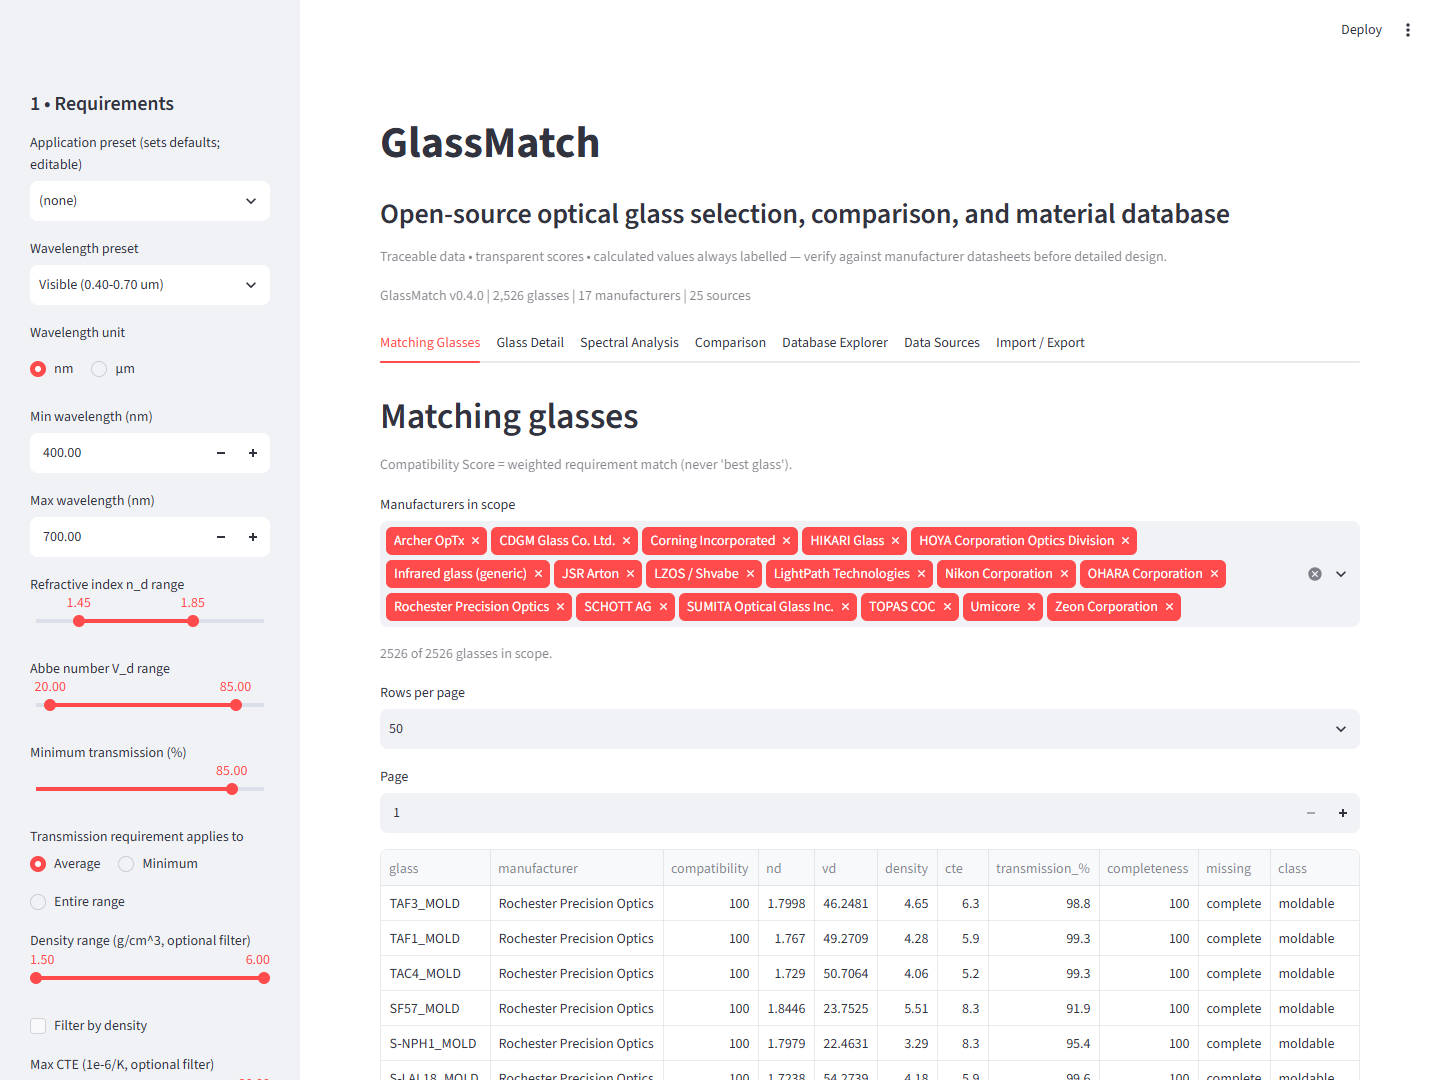
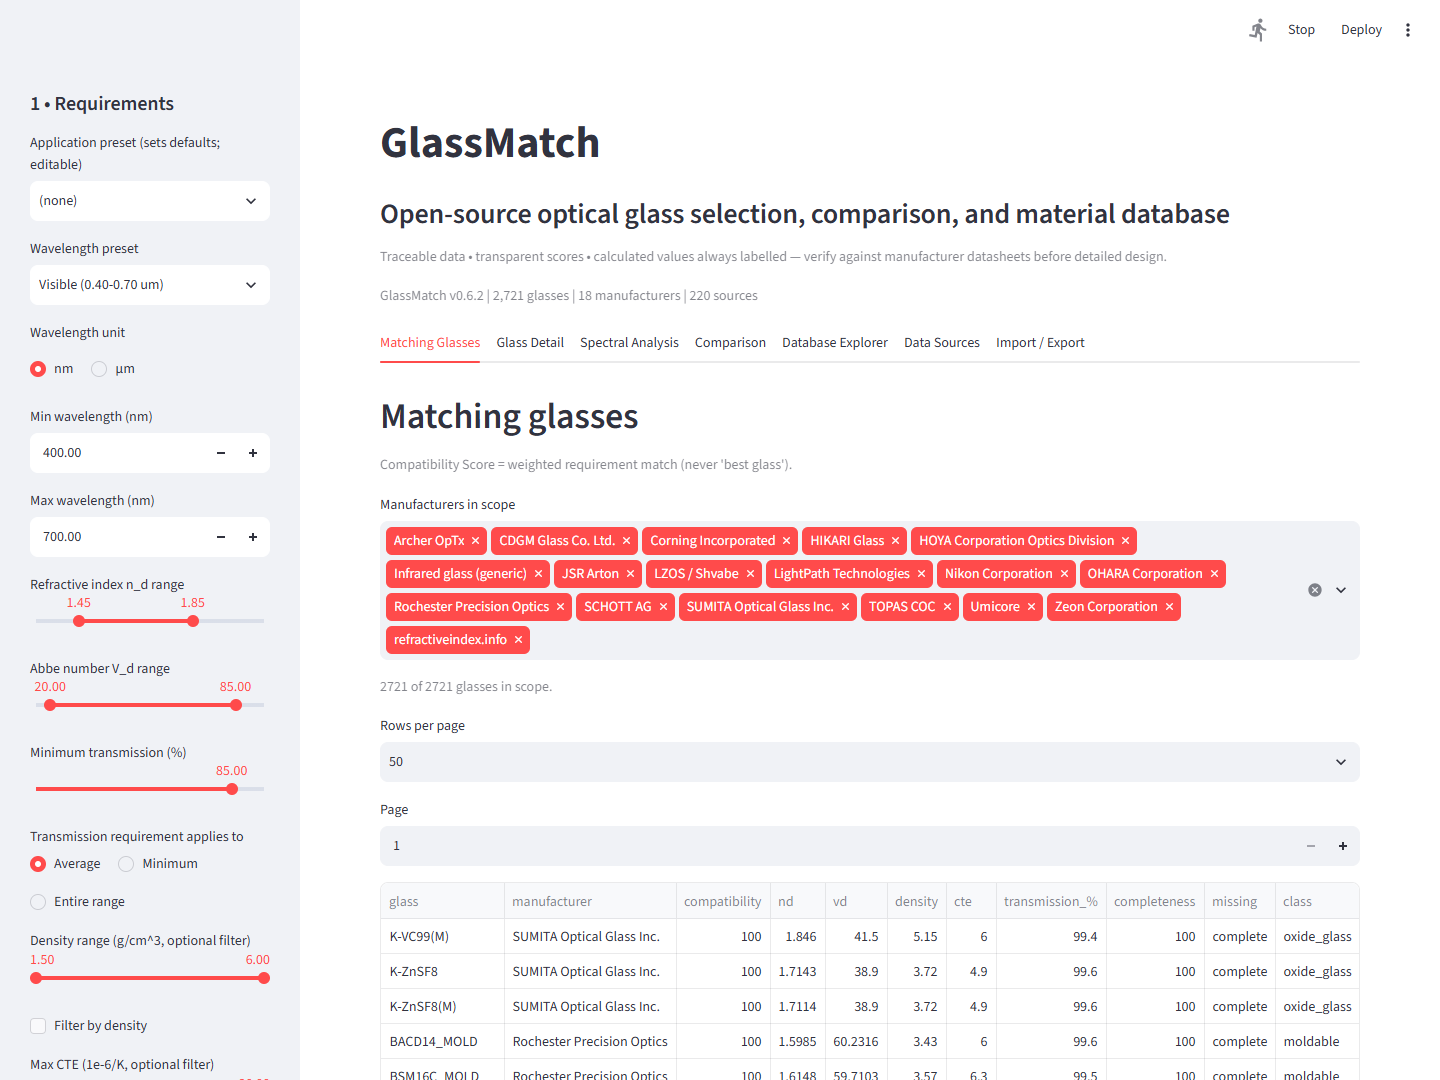
fix(matching): "Require available data" now actually filters
The checkbox set a glass score to 0 but never removed the row, so enabling it
returned all 2,721 materials at 0% - the results table opened on a wall of
zeros. It also used the wrong rule, failing a glass for ANY missing property:
a glass with perfect n_d, V_d and transmission but no published density was
discarded from a query that never mentioned density.

Requirement and weight are different kinds of intent - a range is a question
asked, a weight only tunes scoring priority. constrained_keys() now decides
exclusion, excluded rows are dropped, and match_glasses reports the count plus
which property blocked each one, so the UI can disclose the exclusions rather
than silently shrink the result set.

On the full database a 400-700 nm, n_d 1.50-1.55, V_d 55-70, T>90% query goes
from 2,721 rows of zeros to real ranked results with the incomplete ones
removed and counted.

diff --git a/tests/test_require_data.py b/tests/test_require_data.py
@@ -1,0 +1,142 @@
+"""Tests: "Require available data" actually removes what it claims to.
+
+The checkbox zeroed a glass's score but never dropped the row, so enabling it
+returned every material in the database at 0% - page one of the results table
+was a wall of zeros. It also had the wrong rule: it failed a glass for *any*
+missing property, so a glass with perfect n_d, V_d and transmission but no
+published density was discarded from a query that never mentioned density.
+"""
+import pandas as pd
+import pytest
+
+from glassmatch.matching import (WEIGHT_KEYS, constrained_keys, match_glasses,
+                                 normalize_weights, score_glass)
+
+W = {"nd": 30.0, "transmission": 30.0, "vd": 20.0, "density": 10.0, "cte": 10.0}
+
+
+def _summary(rows):
+    return pd.DataFrame(rows)
+
+
+BASE = {
+    "glass_id": "MFR-A", "glass": "A", "manufacturer": "MFR",
+    "manufacturer_id": "MFR", "family": "crown",
+    "material_class": "oxide_glass", "ir_mode": False,
+    "nd": 1.5168, "vd": 64.17, "density": 2.51, "cte": 7.1,
+}
+NO_DENSITY = dict(BASE, glass_id="MFR-B", glass="B", density=None)
+NO_TRANSMISSION = dict(BASE, glass_id="MFR-C", glass="C")
+
+REQ_ALL = {"nd_min": 1.50, "nd_max": 1.55, "vd_min": 55, "vd_max": 70,
+           "transmission_min": 90}
+
+
+def test_constrained_keys_reflects_only_stated_requirements():
+    assert constrained_keys(REQ_ALL) == {"nd", "vd", "transmission"}
+    assert constrained_keys({"nd_min": 1.5}) == {"nd"}
+    assert constrained_keys({}) == set()
+    assert constrained_keys({"density_min": 2.0}) == {"density"}
+    assert "cte" in constrained_keys({"cte_max": 20.0})
+
+
+def test_require_data_drops_rows_rather_than_zeroing_them():
+    """The regression: previously every material came back, all at 0%."""
+    summary = _summary([BASE, NO_DENSITY, NO_TRANSMISSION])
+    trans = {"MFR-A": 99.0, "MFR-B": 99.0}  # C has no transmission data
+
+    kept = match_glasses(summary, REQ_ALL, W, transmissions=trans, require_data=True)
+    assert "MFR-C" not in set(kept.glass_id), \
+        "a glass with no transmission data must be dropped"
+    assert kept.attrs["excluded_count"] == 1
+    assert "MFR-A" in set(kept.glass_id)
+    # Nothing survives at 0% - that was the visible symptom.
+    assert (kept.compatibility > 0).all(), \
+        kept[kept.compatibility <= 0].to_dict("records")
+
+
+def test_require_data_keeps_a_glass_missing_an_unconstrained_property():
+    """No density requirement was asked for, so absent density must not fail."""
+    summary = _summary([BASE, NO_DENSITY])
+    trans = {"MFR-A": 99.0, "MFR-B": 99.0}
+    kept = match_glasses(summary, REQ_ALL, W, transmissions=trans, require_data=True)
+    assert set(kept.glass_id) == {"MFR-A", "MFR-B"}
+    assert kept.attrs["excluded_count"] == 0
+    # It is still flagged, and the coverage factor still discounts it.
+    row = kept[kept.glass_id == "MFR-B"].iloc[0]
+    assert "density" in row["missing"]
+    assert row["compatibility"] < \
+        kept[kept.glass_id == "MFR-A"].iloc[0]["compatibility"]
+
+
+def test_require_data_failures_are_reported_with_the_blocking_property():
+    summary = _summary([BASE, NO_TRANSMISSION])
+    trans = {"MFR-A": 99.0}
+    kept = match_glasses(summary, REQ_ALL, W, transmissions=trans, require_data=True)
+    examples = kept.attrs["excluded_examples"]
+    assert len(examples) == 1
+    assert examples[0]["glass_id"] == "MFR-C"
+    assert "transmission" in examples[0]["blocking_missing"]
+
+
+def test_require_data_off_keeps_everything():
+    summary = _summary([BASE, NO_TRANSMISSION])
+    kept = match_glasses(summary, REQ_ALL, W, transmissions={"MFR-A": 99.0},
+                         require_data=False)
+    assert len(kept) == 2
+    assert kept.attrs["excluded_count"] == 0
+
+
+def test_requiring_a_property_excludes_glasses_without_it():
+    summary = _summary([BASE, NO_DENSITY])
+    trans = {"MFR-A": 99.0, "MFR-B": 99.0}
+    req = dict(REQ_ALL, density_min=2.0)
+    kept = match_glasses(summary, req, W, transmissions=trans, require_data=True)
+    assert set(kept.glass_id) == {"MFR-A"}
+    assert kept.attrs["excluded_count"] == 1
+
+
+def test_no_constraints_means_require_data_excludes_nothing():
+    """Otherwise a bare query would silently drop most of the catalogue."""
+    summary = _summary([NO_DENSITY, NO_TRANSMISSION])
+    kept = match_glasses(summary, {}, W, transmissions={}, require_data=True)
+    assert len(kept) == 2
+
+
+def test_internal_columns_are_not_leaked_into_results():
+    summary = _summary([BASE])
+    kept = match_glasses(summary, REQ_ALL, W, transmissions={"MFR-A": 99.0},
+                         require_data=True)
+    assert "excluded" not in kept.columns
+    assert "blocking_missing" not in kept.columns
+
+
+def test_a_requirement_ranks_above_a_zero_weight():
+    """Setting a range means "I need this", even if the weight slider is 0.
+
+    The two controls are different kinds of intent: a requirement is a question
+    the user asked, while a weight only tunes scoring priority. Typing a
+    density range and then zeroing the density weight is self-contradictory
+    input, and excluding such a glass is the safe direction - it returns fewer
+    results, never more than the data supports. The app's real gate is the
+    separate "Filter by density" checkbox, which is what stops the requirement
+    from being sent at all.
+    """
+    summary = _summary([NO_DENSITY])
+    w = dict(W, density=0.0)
+    kept = match_glasses(summary, dict(REQ_ALL, density_min=2.0), w,
+                         transmissions={"MFR-B": 99.0}, require_data=True)
+    assert kept.attrs["excluded_count"] == 1
+    assert len(kept) == 0
+
+
+def test_excluded_rows_never_carry_a_positive_score():
+    """Defence in depth: even if a caller shows the frame, excluded is 0%."""
+    summary = _summary([NO_TRANSMISSION])
+    kept = match_glasses(summary, REQ_ALL, W, transmissions={"MFR-C": 50.0},
+                         require_data=True)
+    assert len(kept) == 1
+    sc = score_glass({"nd": 1.5168, "vd": 64.17, "density": 2.51, "cte": 7.1,
+                      "transmission": None}, REQ_ALL, W, require_data=True)
+    assert sc["excluded"] is True
+    assert sc["overall"] == 0.0

diff --git a/glassmatch/matching.py b/glassmatch/matching.py
@@ -38,6 +38,25 @@ def _band_score(value, lo, hi) -> tuple[float, str]:
     return max(0.0, 1.0 - (v - hi) / (0.5 * width + abs(hi) * 0.05 + 1e-9)), "above"
 
 
+def constrained_keys(requirements: dict) -> set:
+    """Properties the user actually put a requirement on.
+
+    "Require available data" must mean *this* glass has the data needed to
+    answer the question that was asked. A glass with a perfect n_d, V_d and
+    transmission but no published density satisfies a query about n_d, V_d and
+    transmission; excluding it would be a bug, and dropping it on any missing
+    property is how "require data" silently became "require everything".
+    """
+    req = requirements or {}
+    keys = set()
+    for prop in ("nd", "vd", "density", "cte"):
+        if req.get(f"{prop}_min") is not None or req.get(f"{prop}_max") is not None:
+            keys.add(prop)
+    if req.get("transmission_min") is not None:
+        keys.add("transmission")
+    return keys
+
+
 def is_ir_glass(row) -> bool:
     """True when V_d is physically meaningless for this glass."""
     try:
@@ -89,13 +108,19 @@ def score_glass(props: dict, requirements: dict, weights: dict,
     for k, v in out.items():
         if v is None:
             missing.append(k)
-    if require_data and missing:
+    # "Require available data" fails a glass only when a property the user
+    # actually asked about has no value to judge it by.
+    blocking = [k for k in missing if k in constrained_keys(req)]
+    out["blocking_missing"] = blocking
+    out["excluded"] = bool(require_data and blocking)
+    num = sum(w[k] * (out[k] if out[k] is not None else 0.0) for k in WEIGHT_KEYS)
+    den = sum(w[k] for k in WEIGHT_KEYS if out[k] is not None) or 1.0
+    coverage = sum(w[k] for k in WEIGHT_KEYS if out[k] is not None)
+    out["overall"] = (num / den) * (0.5 + 0.5 * coverage)
+    if out["excluded"]:
+        # Zero the headline number too, so an excluded row can never be mistaken
+        # for a poor match if it is ever shown.
         out["overall"] = 0.0
-    else:
-        num = sum(w[k] * (out[k] if out[k] is not None else 0.0) for k in WEIGHT_KEYS)
-        den = sum(w[k] for k in WEIGHT_KEYS if out[k] is not None) or 1.0
-        coverage = sum(w[k] for k in WEIGHT_KEYS if out[k] is not None)
-        out["overall"] = (num / den) * (0.5 + 0.5 * coverage)
     out["flags"] = flags
     out["missing"] = missing
     out["completeness"] = 1.0 - len(missing) / len(WEIGHT_KEYS)
@@ -125,8 +150,21 @@ def match_glasses(summary: pd.DataFrame, requirements: dict, weights: dict,
                      "compatibility": round(float(sc["overall"]) * 100, 1),
                      "completeness": round(float(sc["completeness"]) * 100, 1),
                      "missing": ", ".join(sc["missing"]) if sc["missing"] else "complete",
+                     "excluded": bool(sc["excluded"]),
+                     "blocking_missing": ", ".join(sc["blocking_missing"]),
                      **{f"score_{k}": (None if sc[k] is None else round(float(sc[k]) * 100, 1))
                         for k in WEIGHT_KEYS}})
     out = pd.DataFrame(rows)
-    return out.sort_values("compatibility", ascending=False).reset_index(drop=True)
+    out = out.sort_values("compatibility", ascending=False).reset_index(drop=True)
+    # Drop the rows "require data" rejected, and record how many went so the UI
+    # can say so rather than silently shrinking the result set.
+    excluded = out[out["excluded"]] if "excluded" in out else out.iloc[0:0]
+    kept = out[~out["excluded"]].drop(columns=["excluded", "blocking_missing"]) \
+        if "excluded" in out else out
+    kept = kept.reset_index(drop=True)
+    kept.attrs["excluded_count"] = int(len(excluded))
+    kept.attrs["excluded_examples"] = (
+        excluded.head(5)[["glass_id", "blocking_missing"]].to_dict("records")
+        if len(excluded) else [])
+    return kept
 

diff --git a/tests/test_matching.py b/tests/test_matching.py
@@ -32,11 +32,33 @@ def test_missing_data_flagged_not_failed():
 
 
 def test_require_data_zeroes_incomplete():
+    """A glass with no value for a property the user *asked about* fails.
+
+    The requirement here is on transmission and the glass has none, so it is
+    excluded and scored 0. This test used to pass a glass that was missing
+    density/CTE/transmission while only constraining n_d, and asserted 0.0 -
+    which is the bug: the glass answered the only question that was asked and
+    was being thrown away for properties nobody mentioned.
+    """
+    props = {"nd": 1.517, "vd": 64.0, "density": None, "cte": None, "transmission": None}
+    req = {"nd_min": 1.5, "nd_max": 1.55, "transmission_min": 90.0}
+    sc = score_glass(props, req, {"nd": 1, "vd": 1, "transmission": 1, "density": 1, "cte": 1},
+                     require_data=True)
+    assert sc["excluded"] is True
+    assert sc["blocking_missing"] == ["transmission"]
+    assert sc["overall"] == 0.0
+
+
+def test_require_data_ignores_properties_that_were_not_constrained():
+    """Missing density cannot fail a query that only asked about n_d."""
     props = {"nd": 1.517, "vd": 64.0, "density": None, "cte": None, "transmission": None}
     req = {"nd_min": 1.5, "nd_max": 1.55}
     sc = score_glass(props, req, {"nd": 1, "vd": 1, "transmission": 1, "density": 1, "cte": 1},
                      require_data=True)
-    assert sc["overall"] == 0.0
+    assert sc["excluded"] is False
+    assert sc["blocking_missing"] == []
+    assert "density" in sc["missing"]          # still flagged...
+    assert sc["overall"] > 0                    # ...and still discounted by coverage
 
 
 def test_match_sorts_descending():

diff --git a/app.py b/app.py
@@ -208,6 +208,8 @@ for gid in summary["glass_id"]:
 
 results = match_glasses(summary, requirements, w_in, transmissions=trans,
                         require_data=require_data)
+n_excluded = int(results.attrs.get("excluded_count", 0))
+excluded_examples = results.attrs.get("excluded_examples", [])
 
 tabs = st.tabs(["Matching Glasses", "Glass Detail", "Spectral Analysis",
                 "Comparison", "Database Explorer", "Data Sources",
@@ -216,6 +218,14 @@ tabs = st.tabs(["Matching Glasses", "Glass Detail", "Spectral Analysis",
 with tabs[0]:
     st.header("Matching glasses")
     st.caption("Compatibility Score = weighted requirement match (never 'best glass').")
+    if n_excluded:
+        detail = ", ".join(f"{r['glass_id']} (no {r['blocking_missing']})"
+                           for r in excluded_examples[:3])
+        st.info(
+            f"**{n_excluded:,} material(s) excluded** by \u201cRequire available "
+            f"data\u201d \u2014 they have no value for a property you set a "
+            f"requirement on. Example: {detail}. Clear the checkbox to see them "
+            f"anyway, flagged as missing rather than failed.")
     mf_match = st.multiselect("Manufacturers in scope", sorted(results["manufacturer"].unique()),
                               default=sorted(results["manufacturer"].unique()))
     scoped = results[results["manufacturer"].isin(mf_match)] if mf_match else results.iloc[0:0]
